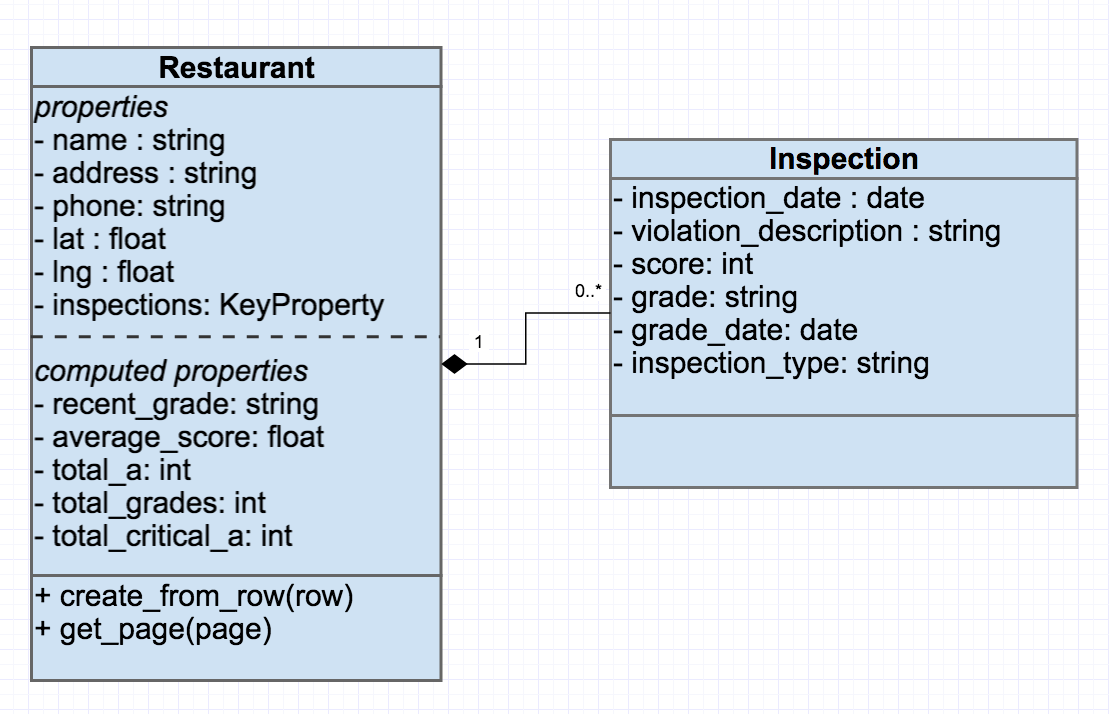
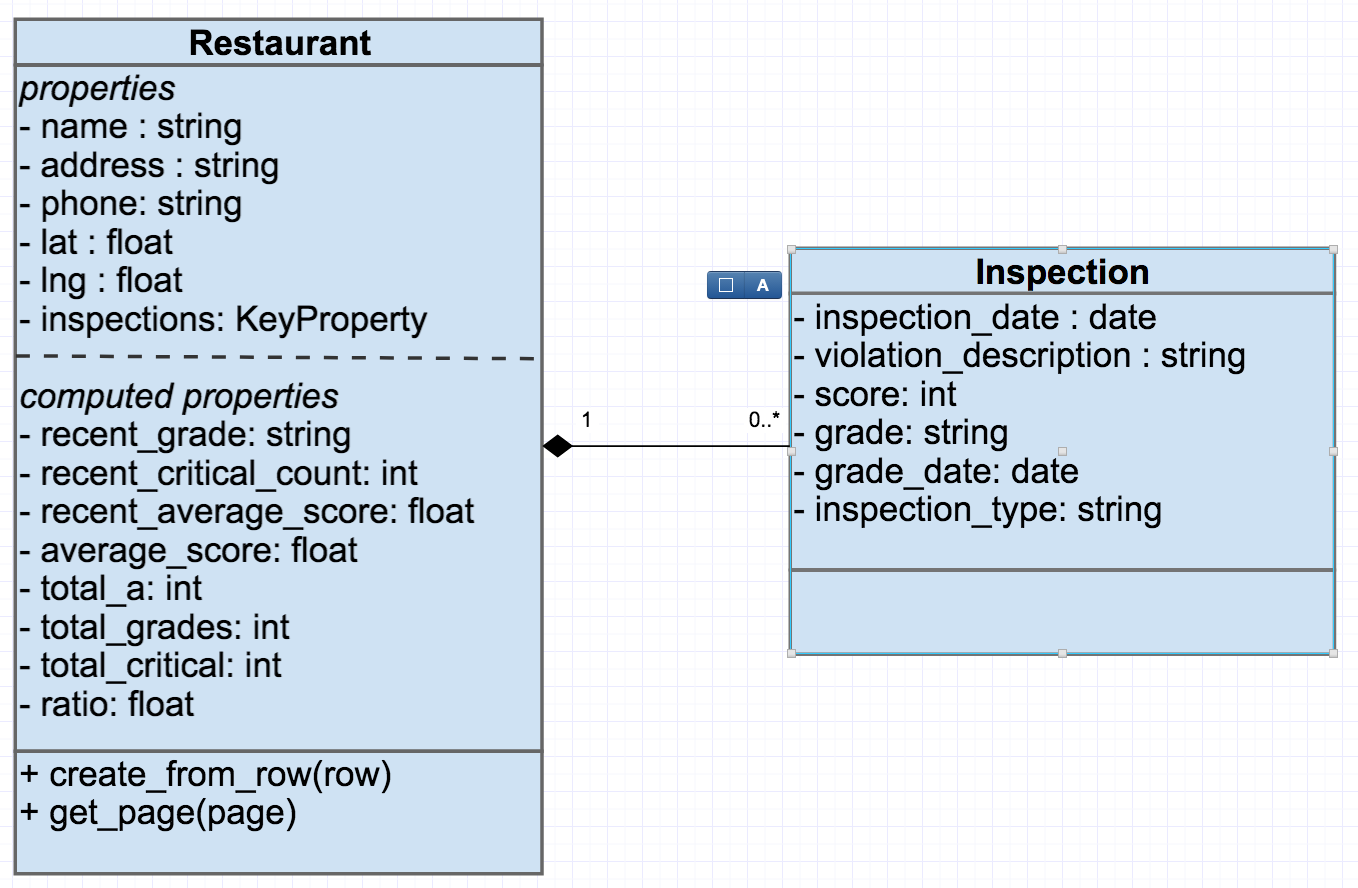
working

Changed region(s): [[0.0, 0.0, 0.3986, 0.986], [0.3679, 0.1849, 1.0, 0.7395]]

diff --git a/restaurantfinder/views/dataviz/templates/dataviz.html b/restaurantfinder/views/dataviz/templates/dataviz.html
@@ -1,5 +1,56 @@
 {% extends 'base.html' %}
 
+
 {% block content %}
-MAP
+  <div id="map"></div>
+{% endblock %}
+
+
+{% block script %}
+    <script>
+      var map;
+      function initMap() {
+        map = new google.maps.Map(document.getElementById('map'), {
+          zoom: 12,
+          center: {lat: 40.730610, lng: -73.935242},
+          mapTypeId: 'terrain'
+        });
+          $(document).ready(function(){
+              console.log("we here");
+          });
+
+        // Create a <script> tag and set the USGS URL as the source.
+        var script = document.createElement('script');
+
+        // This example uses a local copy of the GeoJSON stored at
+        // http://earthquake.usgs.gov/earthquakes/feed/v1.0/summary/2.5_week.geojsonp
+        script.src = 'https://developers.google.com/maps/documentation/javascript/examples/json/earthquake_GeoJSONP.js';
+        document.getElementsByTagName('head')[0].appendChild(script);
+
+        map.data.setStyle(function(feature) {
+          var magnitude = feature.getProperty('mag');
+          return {
+            icon: getCircle(magnitude)
+          };
+        });
+      }
+
+      function getCircle(magnitude) {
+        return {
+          path: google.maps.SymbolPath.CIRCLE,
+          fillColor: 'red',
+          fillOpacity: .2,
+          scale: Math.pow(2, magnitude) / 2,
+          strokeColor: 'white',
+          strokeWeight: .5
+        };
+      }
+
+      function eqfeed_callback(results) {
+        map.data.addGeoJson(results);
+      }
+
+    </script>
+
+    <script async defer src="https://maps.googleapis.com/maps/api/js?key=AIzaSyCf_98nh6p0zMPbOQ3L7fDfjmPnPWoZDog&callback=initMap"></script>
 {% endblock %}

diff --git a/restaurantfinder/views/results/templates/list.html b/restaurantfinder/views/results/templates/list.html
@@ -28,25 +28,29 @@
         <tr>
           <th>#</th>
           <th>Name</th>
-          <th>Total # of A</th>
-          <th>Total # of Critical</th>
-          <th>Average Score</th>
           <th>Latest Grade</th>
+          <th>Recent # of Critical</th>
+          <th>Recent Average Score</th>
+          <th>Total # of A</th>
           <th>All Grades</th>
-          <th>Address</th>
+           <th>Ratio of A / Total Grades</th>
+          <th>Average Score</th>
+          <th>Total # of Critical</th>
         </tr>
       </thead>
       <tbody>
       {% for restaurant in restaurants %}
         <tr>
-          <th scope="row">{{ loop.index + 20 * (pager.page - 1) }}</th>
+          <th scope="row">{{ loop.index + pager.page_size * (pager.page - 1) }}</th>
           <td><a href="/{{ restaurant.key.id() }}">{{ restaurant.name }}</a></td>
-          <td>{{ restaurant.total_a }} / {{ restaurant.total_grades }}</td>
-          <td>{{ restaurant.total_critical }}</td>
-          <td>{{ restaurant.average_score }}</td>
           <td>{{ restaurant.recent_grade }}</td>
+          <td>{{ restaurant.recent_critical_count }}</td>
+          <td>{{ restaurant.recent_average_score }}</td>
+          <td>{{ restaurant.total_a }}</td>
           <td>{{ restaurant.total_grades}}</td>
-          <td>{{ restaurant.address }}</td>
+          <td>{{ restaurant.ratio }}</td>
+          <td>{{ restaurant.average_score }}</td>
+          <td>{{ restaurant.total_critical }}</td>
         </tr>
       {%  endfor %}
       </tbody>

diff --git a/restaurantfinder/templates/base.html b/restaurantfinder/templates/base.html
@@ -23,9 +23,13 @@
       <li class="nav-item dropdown">
         <a class="nav-link dropdown-toggle {{ 'active' if nav == 'top' }}" data-toggle="dropdown" href="#" role="button" aria-haspopup="true" aria-expanded="false">Top Rated</a>
           <div class="dropdown-menu">
-              <a class="dropdown-item" href="/top/score">By Score</a>
+              <a class="dropdown-item" href="/top/best">Best Answer</a>
+              <a class="dropdown-item" href="/top/best2">2nd Best Answer</a>
+              <a class="dropdown-item" href="/top/score">Lowest Score</a>
               <a class="dropdown-item" href="/top/grade">Total # A</a>
+              <a class="dropdown-item" href="/top/ratio">Ratio of A / Total Grades</a>
               <a class="dropdown-item" href="/top/critical">Total # A, least critical</a>
+              <a class="dropdown-item" href="/top/scorecount">Total # A, lowest score</a>
               <a class="dropdown-item" href="/top/recent">Latest Grade A, lowest score</a>
           </div>
       </li>
@@ -47,6 +51,6 @@
 
   <script src="https://code.jquery.com/jquery-3.1.1.slim.min.js" integrity="sha384-A7FZj7v+d/sdmMqp/nOQwliLvUsJfDHW+k9Omg/a/EheAdgtzNs3hpfag6Ed950n" crossorigin="anonymous"></script>
   <script src="/static/js/bootstrap.min.js"></script>
-
+  {% block script %} {% endblock %}
 </body>
 </html>

diff --git a/restaurantfinder/views/results/templates/single.html b/restaurantfinder/views/results/templates/single.html
@@ -12,9 +12,35 @@
     <div class="row">
       <p>Tel: {{ restaurant.phone }}</p>
     </div>
+    <div class="row">
+      <h3>Summary</h3>
+      <table class="table table-bordered">
+        <thead class="thead-inverse">
+          <tr>
+            <th>Summary</th>
+            <th>Value</th>
+          </tr>
+        </thead>
+        <tbody>
+          <tr>
+            <td>Average Score</td>
+            <td>{{ restaurant.average_score }}</td>
+          </tr>
+          <tr>
+            <td>Total # A</td>
+            <td>{{ restaurant.total_a }}</td>
+          </tr>
+          <tr>
+            <td>Latest Critical Count</td>
+            <td>{{ restaurant.recent_critical_count }}</td>
+          </tr>
+        </tbody>
+      </table>
+    </div>
 
-    <h2>Inspections</h2>
-    <table class="table table-bordered">
+    <div class="row">
+      <h3>Inspections</h3>
+      <table class="table table-bordered">
       <thead class="thead-inverse">
         <tr>
           <th>#</th>
@@ -40,5 +66,6 @@
       {%  endfor %}
       </tbody>
     </table>
+    </div>
   </div>
 {% endblock %}

diff --git a/restaurantfinder/static/src/sass/app.scss b/restaurantfinder/static/src/sass/app.scss
@@ -13,3 +13,7 @@ html, body {
     width: 100%;
     height: 100%;
 }
+
+#map {
+  height: 100%;
+}

diff --git a/restaurantfinder/models.py b/restaurantfinder/models.py
@@ -1,8 +1,12 @@
-from datetime import datetime
 import logging
+from datetime import datetime
+from datetime import timedelta
 from itertools import groupby
+
 from google.appengine.ext import ndb
+
 from restaurantfinder.utils import geocoding_service
+
 log = logging.getLogger(__name__)
 
 CUISINE_FIELD = "CUISINE DESCRIPTION"
@@ -22,13 +26,53 @@ class Inspection(ndb.Model):
 
 class Restaurant(ndb.Model):
     def recent_grade_fn(self):
+        """
+        Set the most recent letter grade
+        :return:
+        """
         grades = self.get_grades()
-        return grades[0][1] if len(grades) > 0 else ''
+        return grades[0][1].pop().grade if len(grades) > 0 else ''
+
+    def recent_critical_count_fn(self):
+        """
+        This aggregates all the recent critical flags since the most recent inspection.
+        It includes the flags that were part of the latest grade, and any new inspections since even if they
+        didnt produce a grade yet.
+        :return: int
+        """
+        grades = self.get_grades()
+        if len(grades) == 0:
+            return 0
+        latest_inspection = grades[0][0]
+        return len([x.critical_flag for x in self.inspections if x.inspection_date >= latest_inspection and x.critical_flag])
+
+    def recent_average_score_fn(self):
+        """
+        This aggregates all the recent scores since the most recent inspection.
+        It includes the score that were part of the latest grade, and any new inspections since even if they
+        didn't produce a grade yet.
+        :return: int
+        """
+        grades = self.get_grades()
+        if len(grades) == 0:
+            return 0
+        latest_inspection = grades[0][0]
+        inspections = [x for x in self.inspections if x.score > 0 and x.inspection_date >= latest_inspection]
+        if len(inspections) == 0:
+            return 0
+        return float(sum([x.score for x in inspections])) / float(len(inspections))
 
     def average_score_fn(self):
+        """
+        Averages the score for all inspections with a score higher than 0
+        Inspections with no score generally dont relate to food handling but rather the general facility
+        :return:
+        """
         if len(self.inspections_keys) == 0:
             return 0
-        inspections = self.inspections
+        inspections = [x for x in self.inspections if x.score > 0]
+        if len(inspections) == 0:
+            return 0
         return float(sum([x.score for x in inspections])) / float(len(inspections))
 
     def get_grades(self):
@@ -36,17 +80,21 @@ class Restaurant(ndb.Model):
         grouped = groupby(grades, lambda x: x.grade_date)
         result = []
         for date, group in grouped:
-            result.append((date, list(group).pop().grade))
+            result.append((date, list(group)))
         return result
 
     def total_grades_fn(self):
         return len(self.get_grades())
 
     def total_a_fn(self):
-        return len([x for x in self.get_grades() if x[1] == 'A'])
+        return len([x for x in self.get_grades() if x[1].pop().grade == 'A'])
 
     def total_critical_fn(self):
         return len([x for x in self.inspections if x.critical_flag])
+
+    def ratio_fn(self):
+        total = self.total_grades
+        return float(self.total_a) / float(total) if total > 0 else 0
 
     name = ndb.StringProperty(required=True)
 
@@ -64,10 +112,23 @@ class Restaurant(ndb.Model):
     inspections_keys = ndb.KeyProperty(repeated=True)
 
     recent_grade = ndb.ComputedProperty(recent_grade_fn)
+    recent_grade_date = ndb.DateProperty()
+    recent_critical_count = ndb.ComputedProperty(recent_critical_count_fn)
+    recent_average_score = ndb.ComputedProperty(recent_average_score_fn)
     average_score = ndb.ComputedProperty(average_score_fn)
     total_a = ndb.ComputedProperty(total_a_fn)
     total_grades = ndb.ComputedProperty(total_grades_fn)
+    ratio = ndb.ComputedProperty(ratio_fn)
     total_critical = ndb.ComputedProperty(total_critical_fn)
+
+    def _pre_put_hook(self):
+        """
+        Set the most recent letter grade date.
+        Cant use computed property, as they only support primitive data types.
+        :return:
+        """
+        grades = self.get_grades()
+        self.recent_grade_date = grades[0][1].pop().grade_date if len(grades) > 0 else None
 
     def to_dict(self, include=None, exclude=None):
         result = super(Restaurant, self).to_dict(include=include,
@@ -117,11 +178,13 @@ class Restaurant(ndb.Model):
     @classmethod
     def get_page(cls, page):
         qry = cls.query()
+        page_size = 20
         restaurants, _, more = qry.fetch_page(
-            page_size=20,
-            offset=(page - 1) * 20
+            page_size=page_size,
+            offset=(page - 1) * page_size
         )
         pager = {
+            'page_size': page_size,
             'page': page,
             'has_next': more,
             'has_prev': page > 1,
@@ -140,28 +203,52 @@ class Restaurant(ndb.Model):
     @classmethod
     def find_by_criteria(cls, criteria, page):
         qry = cls.query()
+        page_size = 10
 
-        if criteria == 'score':
-            msg = "Top Rated By Lowest Average Score"
+        if criteria == 'best':
+            msg = "Best guess: most recent grade is A, and has lowest critical flags since"
+            qry = qry.filter(cls.recent_grade == 'A').order(cls.recent_critical_count, cls.recent_average_score)
+
+        elif criteria == 'best2':
+            msg = "Best guess: most recent grade is A, and has lowest critical flags since, all within the last year (newest restaurants)"
+            d = datetime.today() - timedelta(days=365)
+            qry = qry.filter(cls.recent_grade == 'A', cls.recent_grade_date >= d).order(-cls.recent_grade_date, cls.recent_critical_count, cls.recent_average_score)
+
+        elif criteria == 'score':
+            msg = "Lowest Average Score"
             qry = qry.filter(cls.total_grades > 1).order(cls.total_grades, cls.average_score)
+
         elif criteria == 'grade':
-            msg = "Top Rated By Total Number of As"
+            msg = "Total Number of As"
             qry = qry.order(-cls.total_a)
+
         elif criteria == 'critical':
-            msg = "Top Rated by Total Numbers of As with least critical count"
+            msg = "Total Number of As with least Critical Flags"
             qry = qry.filter(cls.total_a > 0).order(-cls.total_a).order(
-                cls.total_critical_a)
-        else:
-            msg = "Latest Grade is A, lowest score"
+                cls.total_critical)
+
+        elif criteria == 'scorecount':
+            msg = "Total Number of As, Lowest Average Score"
+            qry = qry.order(-cls.total_a, cls.average_score)
+
+        elif criteria == 'ratio':
+            msg = "Ratio of As / Total grades, sorted by Total # of As"
+            qry = qry.order(-cls.ratio, -cls.total_a)
+
+        elif criteria == 'recent':
+            msg = "Latest Grade is A, Lowest Average Score"
             qry = qry. \
                 filter(cls.recent_grade == 'A', cls.average_score > 0.0) \
                 .order(cls.average_score)
+        else:
+            raise Exception("incorrect criteria")
 
         restaurants, _, more = qry.fetch_page(
-            page_size=10,
-            offset=(page - 1) * 10
+            page_size=page_size,
+            offset=(page - 1) * page_size
         )
         pager = {
+            'page_size': page_size,
             'page': page,
             'has_next': more,
             'has_prev': page > 1,
@@ -193,7 +280,7 @@ def create_from_row(row):
             boro=row["BORO"],
             zipcode=row["ZIPCODE"],
         )
-        # needs_geo = True
+        needs_geo = True
 
     # async datastore call
     ndb_rpc = Inspection(

diff --git a/restaurantfinder/views/dataviz/main.py b/restaurantfinder/views/dataviz/main.py
@@ -6,7 +6,7 @@ from restaurantfinder.blueprints import dataviz as dataviz_view
 
 @dataviz_view.route('/', methods=['GET'])
 def visualize():
-    if etl.Extractor.has_data():
-        return render_template("dataviz.html", nav="dataviz")
-    else:
-        return redirect("/etl")
+   # if etl.Extractor.has_data():
+    return render_template("dataviz.html", nav="dataviz")
+    #else:
+     #   return redirect("/etl")

diff --git a/README.md b/README.md
@@ -41,7 +41,7 @@ AppEngine provides a lot of useful librairies
 
 ### ETL
 
-![ETL](ETL.jpg)
+![ETL](ETL.png)
 
 
 
